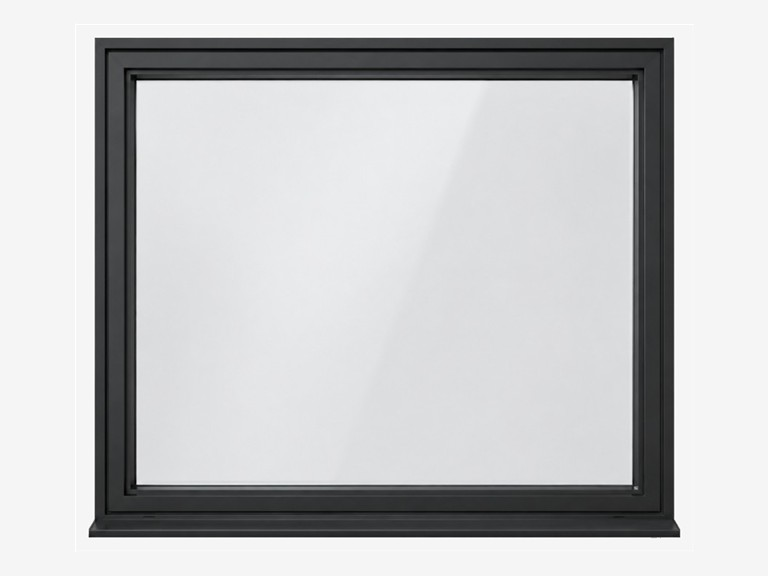
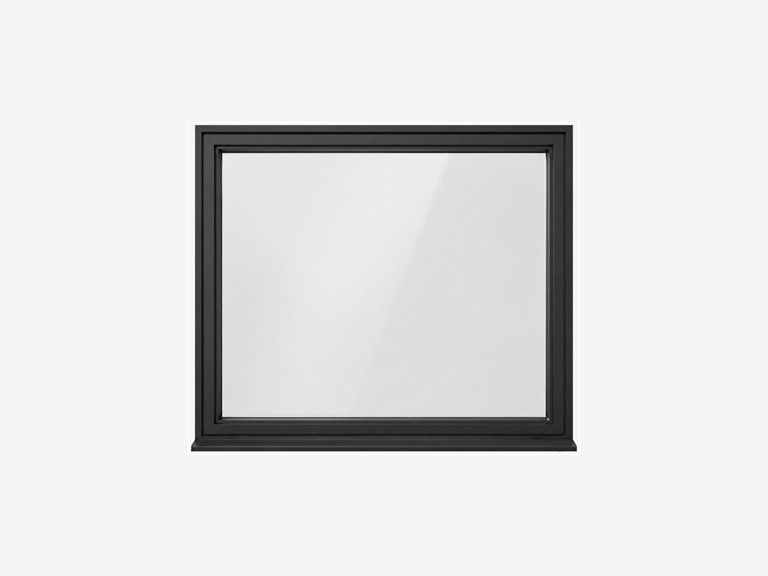
Scale Modern Upgrade window to match other catalog cards

diff --git a/src/routes/index.tsx b/src/routes/index.tsx
@@ -173,14 +173,16 @@ function Home() {
                   <Sparkles className="h-3 w-3" /> Most Homeowners Choose This
                 </div>
               )}
-              <div className="aspect-[4/5] overflow-hidden bg-muted">
+              <div className={`aspect-[4/5] overflow-hidden ${t.id === "modern-upgrade" ? "bg-[#f5f5f5]" : "bg-muted"}`}>
                 <img
                   src={t.image}
                   alt={t.title}
                   width={1200}
                   height={1500}
                   loading="lazy"
-                  className="h-full w-full object-cover transition duration-700 group-hover:scale-[1.03]"
+                  className={`h-full w-full transition duration-700 group-hover:scale-[1.03] ${
+                    t.id === "modern-upgrade" ? "object-contain" : "object-cover"
+                  }`}
                 />
               </div>
               <div className="p-5">
